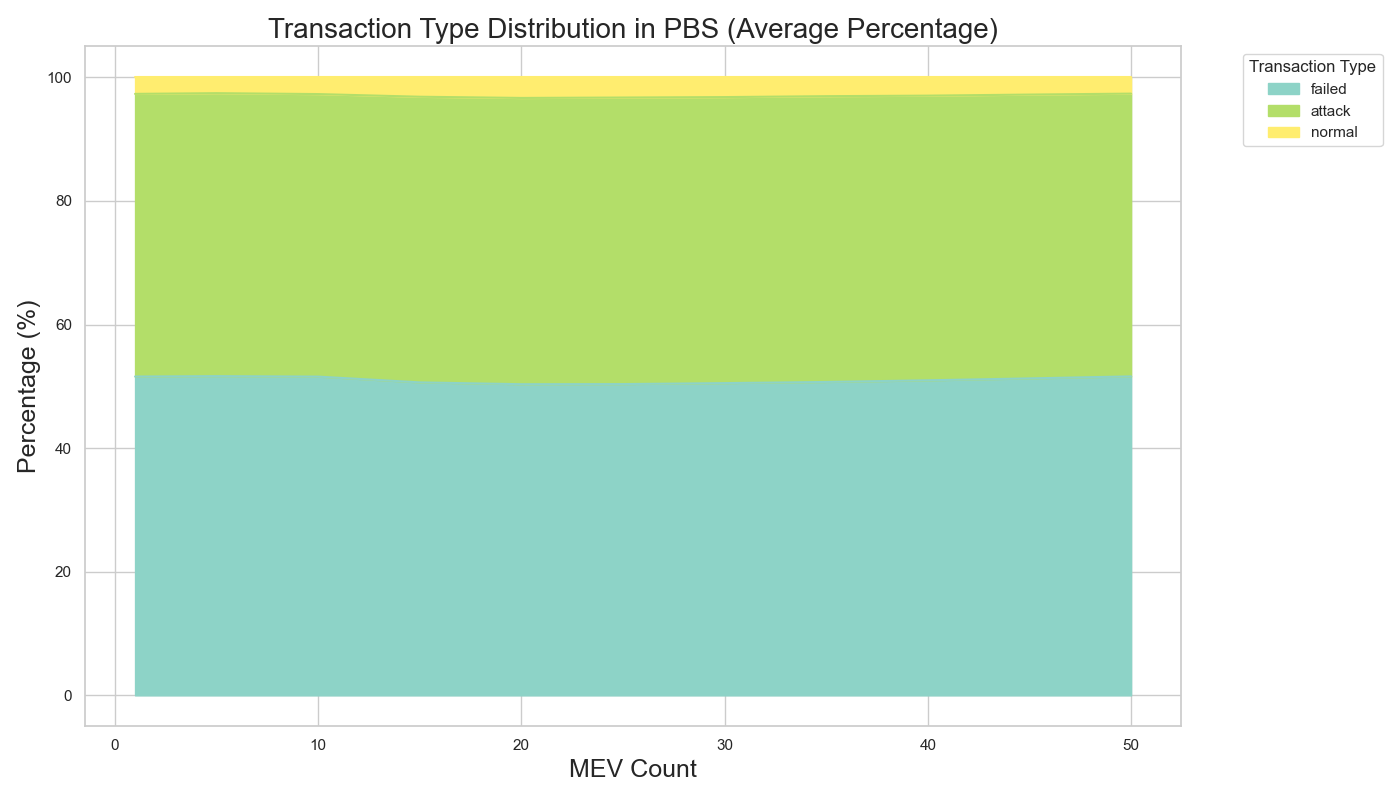
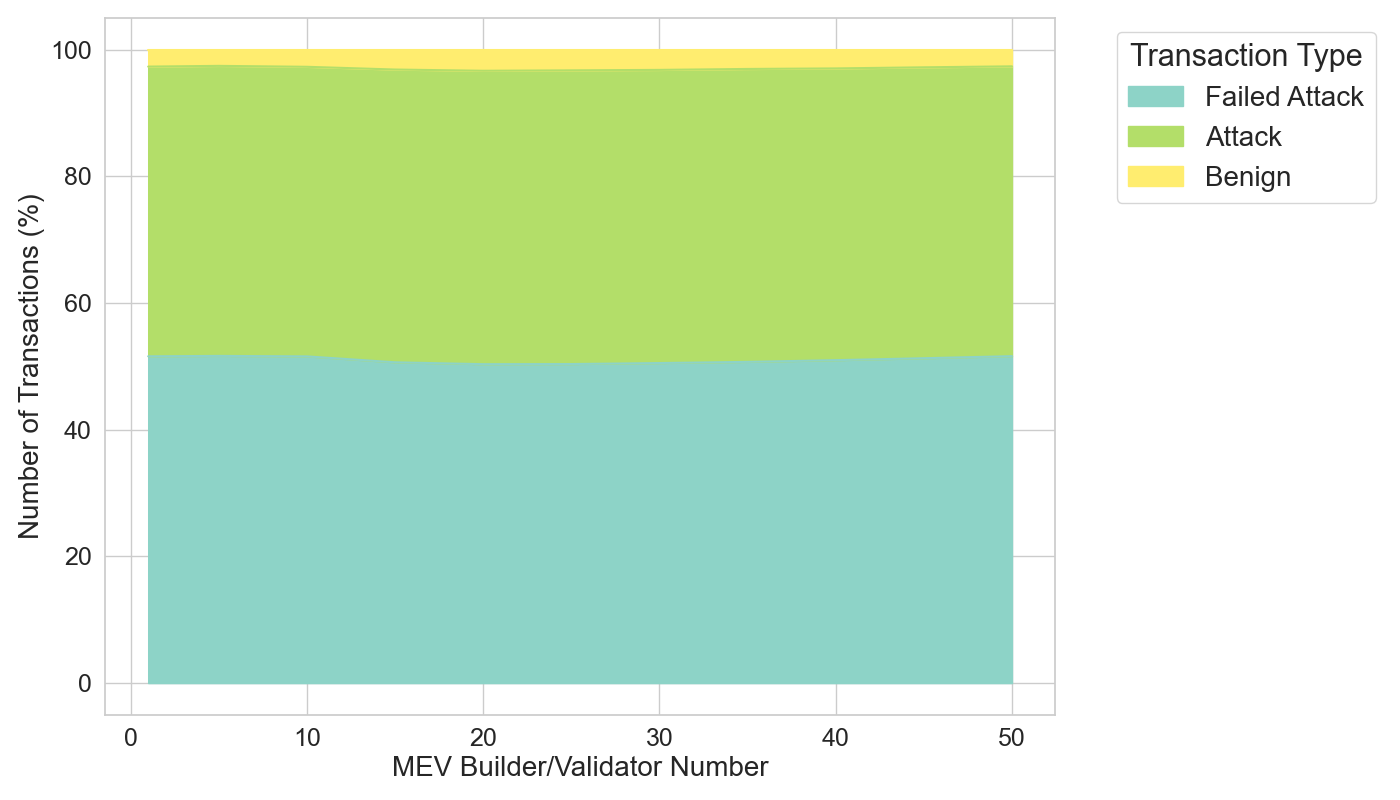
update font size

diff --git a/plots/new/tx_inclusion.py b/plots/new/tx_inclusion.py
@@ -21,8 +21,8 @@ def load_and_aggregate_transaction_types(data_dir, mev_counts, num_runs):
                 pbs_df = pd.read_csv(pbs_dir)
                 pos_df = pd.read_csv(pos_dir)
 
-                pbs_df['transaction_type'] = pbs_df['transaction_type'].replace({'b_attack': 'attack', 'normal': 'benign', 'failed': 'failed attack'})
-                pos_df['transaction_type'] = pos_df['transaction_type'].replace({'b_attack': 'attack', 'normal': 'benign', 'failed': 'failed attack'})
+                pbs_df['transaction_type'] = pbs_df['transaction_type'].replace({'b_attack': 'Attack', 'normal': 'Benign', 'failed': 'Failed Attack'})
+                pos_df['transaction_type'] = pos_df['transaction_type'].replace({'b_attack': 'Attack', 'normal': 'Benign', 'failed': 'Failed Attack'})
 
                 # Aggregate transaction types across runs
                 pbs_transaction_types = pbs_df['transaction_type'].value_counts(normalize=True) * 100
@@ -65,19 +65,19 @@ def plot_smooth_stacked_transaction_distribution(data_dir, mev_counts_to_plot, n
     plt.rc('axes', titlesize=24, labelsize=20)  # Titles and labels
     plt.rc('xtick', labelsize=18)
     plt.rc('ytick', labelsize=18)
-    plt.rc('legend', fontsize=18)  # Legend font size
+    plt.rc('legend', fontsize=20)  # Legend font size
 
     # Create the smooth stacked area plots
     fig, axes = plt.subplots(2, 1, figsize=(14, 12), sharex=True, sharey=True)
 
     pbs_df.plot(kind='area', stacked=True, ax=axes[0], colormap='Set3')
     axes[0].set_ylabel('Number of Transactions (%)', fontsize=20)
-    axes[0].legend(title='Transaction Type', bbox_to_anchor=(1.05, 1), loc='upper left')
+    axes[0].legend(title='Transaction Type', title_fontsize=22, bbox_to_anchor=(1.05, 1), loc='upper left')
 
     pos_df.plot(kind='area', stacked=True, ax=axes[1], colormap='Set3')
     axes[1].set_xlabel('MEV Builder/Validator Number', fontsize=20)
     axes[1].set_ylabel('Number of Transactions (%)', fontsize=20)
-    axes[1].legend(title='Transaction Type', bbox_to_anchor=(1.05, 1), loc='upper left')
+    axes[1].legend(title='Transaction Type', title_fontsize=22, bbox_to_anchor=(1.05, 1), loc='upper left')
 
     plt.tight_layout()
     plt.savefig('figures/new/average_smooth_transaction_distribution_pbs_pos.png')
@@ -87,7 +87,7 @@ def plot_smooth_stacked_transaction_distribution(data_dir, mev_counts_to_plot, n
     pbs_df.plot(kind='area', stacked=True, figsize=(14, 8), colormap='Set3')
     plt.ylabel('Number of Transactions (%)', fontsize=20)
     plt.xlabel('MEV Builder/Validator Number', fontsize=20)
-    plt.legend(title='Transaction Type', bbox_to_anchor=(1.05, 1), loc='upper left')
+    plt.legend(title='Transaction Type', title_fontsize=22, bbox_to_anchor=(1.05, 1), loc='upper left')
     plt.tight_layout()
     plt.savefig('figures/new/average_smooth_transaction_distribution_pbs.png')
     plt.close()
@@ -95,7 +95,7 @@ def plot_smooth_stacked_transaction_distribution(data_dir, mev_counts_to_plot, n
     pos_df.plot(kind='area', stacked=True, figsize=(14, 8), colormap='Set3')
     plt.ylabel('Number of Transactions (%)', fontsize=20)
     plt.xlabel('MEV Builder/Validator Number', fontsize=20)
-    plt.legend(title='Transaction Type', bbox_to_anchor=(1.05, 1), loc='upper left')
+    plt.legend(title='Transaction Type', title_fontsize=22, bbox_to_anchor=(1.05, 1), loc='upper left')
     plt.tight_layout()
     plt.savefig('figures/new/average_smooth_transaction_distribution_pos.png')
     plt.close()
